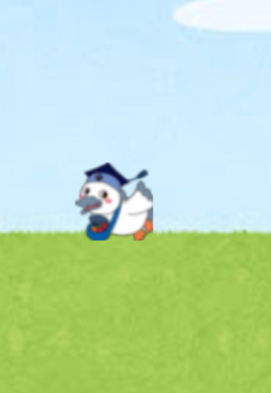
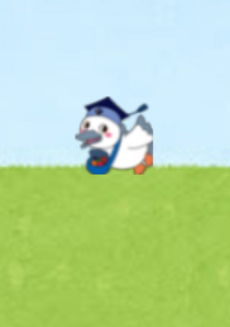
りどみ画像の調整3

Changed region(s): [[0.0, 0.2752, 1.0, 0.6116], [0.6391, 0.0, 1.0, 0.0917]]

diff --git a/README.md b/README.md
@@ -59,7 +59,7 @@
 
 '
 <br>
-<img src="fig/スクリーンショット赤ちゃん.png" width="30%" height="185">
+<img src="fig/スクリーンショット赤ちゃん.png" width="30%">
 <img src="fig/スクリーンショットふつう.png" width="30%">
 <img src="fig/スクリーンショット大人.png" width="30%">
 '
